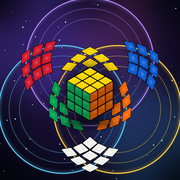
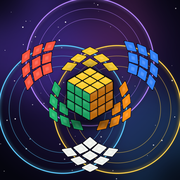
Une note de musique par cercle, les couleurs aimées du client, un tour de victoire plus visible
- sonTour : chaque orbite joue sa note (gamme pentatonique de do, timbre de kalimba).
- Palette Classique aux tons francs et lumineux de la vidéo montrée par le client ; le logo les reprend.
- Victoire : le cube fait son tour en 1,5 s en se penchant un peu, la fenêtre attend qu'il ait fini.

Claude-Session: https://claude.ai/code/session_01KjE4CDatngCY62Y8iDRxzu

diff --git a/orbicube/www/index.html b/orbicube/www/index.html
@@ -1213,7 +1213,7 @@ var PAL_THEME=[   // même ordre que le classique (orange, rouge, jaune, blanc, 
 // petite (de l'air entre les pièces), et un motif par décor : taille de cristal (vert), givre (bleu), braise (rouge), étincelle (violet)
 var LOOK_THEME=[{corps:"#071712",motif:"cristal"},{corps:"#07111F",motif:"givre"},{corps:"#1A090C",motif:"braise"},{corps:"#120A22",motif:"etincelle"}];
 var THEME_COURANT=2;   // l'accueil et les menus ont le décor bleu (bg-2) ; le jeu et la carte prennent celui de leur monde
-var PALETTES={classique:["#FF7A1E","#FA3A47","#FBD101","#F4F4F6","#2DCC4B","#0095D5"],
+var PALETTES={classique:["#FF9014","#FD5440","#FCCD30","#F2F5F0","#21B86F","#3282FC"],   // tons francs et lumineux (le client, le 16/10/2026)
   contraste:["#E69F00","#CC79A7","#F0E442","#FFFFFF","#009E73","#0072B2"],
   pastel:["#FFB27A","#F28B9B","#FFE38A","#F4F1EA","#8FD9A8","#8DB8F2"],
   neon:["#FF7A00","#FF2E63","#F5F500","#E8FFFF","#00FF9C","#00C8FF"],
@@ -1747,8 +1747,10 @@ document.addEventListener("visibilitychange",function(){if(document.hidden)Musiq
 function bip(freq,dur,type,vol,quand){var ac=audio();if(!ac)return;var t=ac.currentTime+(quand||0),o=ac.createOscillator(),g=ac.createGain();
   o.type=type||"sine";o.frequency.setValueAtTime(freq,t);g.gain.setValueAtTime(0,t);g.gain.linearRampToValueAtTime(vol||.12,t+.01);g.gain.exponentialRampToValueAtTime(.0001,t+dur);
   o.connect(g);g.connect(ac.destination);o.start(t);o.stop(t+dur+.02);}
-// nf = nombre de faces déjà unies : le son monte à mesure qu'on approche de la résolution (tension)
-function sonTour(mv,nf){var base=[330,392,494][mv.L+1]*(1+mv.a*.12)*(1+(nf||0)*.05);bip(base,.12,"triangle",.09);bip(base*1.5,.09,"sine",.05,.05);}
+// chaque cercle a sa note (le client, le 16/10/2026) : la gamme pentatonique de do, du grave à l'aigu, trois notes par famille
+// d'orbites ; un timbre de kalimba (fondamentale, octave légère, attaque brève) : jouer, c'est faire une petite mélodie
+var NOTES=[261.63,293.66,329.63,392,440,523.25,587.33,659.25,783.99];
+function sonTour(mv){var f=NOTES[mv.a*3+mv.L+1];bip(f,.7,"sine",.11);bip(f*2,.35,"sine",.025,.005);bip(f*3,.08,"triangle",.02);}
 function sonClic(){bip(660,.05,"sine",.05);}
 function sonEtoile(i){bip(880*Math.pow(1.26,i),.25,"sine",.12);bip(1320*Math.pow(1.26,i),.2,"triangle",.05,.02);}
 function sonVictoire(){bip(131,.6,"sine",.09);[523,659,784,1047,1319].forEach(function(f,i){bip(f,.4,"triangle",.1,i*.08);bip(f*2,.3,"sine",.03,i*.08+.02);});}
@@ -2202,9 +2204,10 @@ function victoire(){J.fini=true;var temps=performance.now()-J.t0,n=J.hist.length
   Musique.effacer(3500);[0,1,2,3,4,5].forEach(function(k){bip(392*Math.pow(1.122,k),.12,"sine",.05,k*.075);});
   // les six faces s'illuminent l'une après l'autre, et le cube fait un tour complet sur lui-même
   Object.keys(CENTRE_FACE).forEach(function(k,i){setTimeout(function(){if(J!==jeton)return;JeuP.eclats.push({xy:CENTRE_FACE[k],c:JeuP.col[CLE_CENTRE[k]],t0:performance.now()});Ticker.reveiller();},CALME?0:420+i*110);});
-  var base={y:PIVOT.y,x:PIVOT.x};if(!CALME)(function tour(now){if(J!==jeton){PIVOT=base;return;}var k=Math.min(1,(now-t0-200)/1100);if(k<0){requestAnimationFrame(tour);return;}
-    PIVOT={y:base.y+ease(k)*Math.PI*2,x:base.x};dessinerMini();if(k<1)requestAnimationFrame(tour);else{PIVOT=base;dessinerMini();}})(t0);
-  setTimeout(function(){if(J!==jeton)return;sonVictoire();vibrer([20,40,20]);confettis();fenetreVictoire(e,n,temps,record);verifierSucces();},CALME?300:1150);}
+  var base={y:PIVOT.y,x:PIVOT.x};if(!CALME)(function tour(now){if(J!==jeton){PIVOT=base;return;}var k=Math.min(1,(now-t0-200)/1500);if(k<0){requestAnimationFrame(tour);return;}
+    // un tour complet, le cube se penchant un peu vers l'avant à mi-course (le client, le 16/10/2026 : « c'est beau »)
+    PIVOT={y:base.y+ease(k)*Math.PI*2,x:base.x+Math.sin(Math.PI*k)*.35};dessinerMini();if(k<1)requestAnimationFrame(tour);else{PIVOT=base;dessinerMini();}})(t0);
+  setTimeout(function(){if(J!==jeton)return;sonVictoire();vibrer([20,40,20]);confettis();fenetreVictoire(e,n,temps,record);verifierSucces();},CALME?300:1700);}
 function fenetreVictoire(e,n,temps,record){var d=J.def,suiv=null;
   // campagne : le bouton principal suit le chemin ; un niveau pair du chemin qui ouvre un expert le propose en second
   var experts=null,cS=null;

diff --git a/orbicube/www/sw.js b/orbicube/www/sw.js
@@ -1,6 +1,6 @@
 // Version web (PWA) : tout le jeu est mis en cache pour se jouer hors ligne.
 // Incrémenter V à chaque publication, sinon les joueurs gardent l'ancienne version.
-var V = "orbicube-v162";
+var V = "orbicube-v163";
 var FICHIERS = ["./", "index.html", "config.js", "natif.js", "langues.js", "manifest.webmanifest", "confidentialite.html",
   "img/fond-1.webp", "img/fond-2.webp", "img/fond-3.webp", "img/fond-4.webp",
   "img/bg-1.webp", "img/bg-2.webp", "img/bg-3.webp", "img/bg-4.webp",

diff --git a/orbicube/outils/icones.py b/orbicube/outils/icones.py
@@ -219,6 +219,8 @@ def cube(im,cx,cy,s,cols=((245,245,240),(0,166,81),(215,25,44))):
 # le logo (2e version, le client, le 16/10/2026 : « le cube au milieu et quelques orbites avec les facettes autour, faisant
 # comprendre le mieux possible le jeu ») : le plateau du jeu, ses neuf orbites (une couleur par famille, la plus grande
 # appuyée) et ses facettes en losanges, résolu ; au centre le cube, qui porte les couleurs des faces voisines
+# les couleurs de la palette Classique du jeu (le client, le 16/10/2026)
+COUL_LOGO = ["#FF9014", "#FD5440", "#FCCD30", "#F2F5F0", "#21B86F", "#3282FC"]
 ORB=[(255,207,74),(178,130,255),(92,200,255)]   # une couleur par famille d'orbites
 
 def stickers():
@@ -262,13 +264,13 @@ def logo_premium(T,ech=0.33,transparent=False,rcube=0.46,mode="A"):
         P=[V(p) for p in pts]
         # ombre / liseré sombre puis la couleur
         poly_arrondi(d,retrecir(P,1.12),(8,8,14,255),T*0.004)
-        poly_arrondi(d,P,hexa(COUL[f])+(255,),T*0.004)
+        poly_arrondi(d,P,hexa(COUL_LOGO[f])+(255,),T*0.004)
         hd.polygon([P[0],P[1],P[3]] if False else retrecir(P,0.55),fill=(255,255,255,40))
     hl=hl.filter(ImageFilter.GaussianBlur(T*0.003)); im.alpha_composite(hl)
     # le cube au centre, avec un halo
     s=rcube*E*0.98
     g=Image.new("RGBA",(T,T),(0,0,0,0)); gd=ImageDraw.Draw(g); gd.ellipse([O[0]-s*1.05,O[1]-s*1.05,O[0]+s*1.05,O[1]+s*1.05],fill=(10,8,24,150)); g=g.filter(ImageFilter.GaussianBlur(s*0.18)); im.alpha_composite(g)
-    cube(im,O[0],O[1]+s*0.02,s,(hexa(COUL[2]),hexa(COUL[4]),hexa(COUL[0])))   # U, F, R : les faces voisines du plateau
+    cube(im,O[0],O[1]+s*0.02,s,(hexa(COUL_LOGO[2]),hexa(COUL_LOGO[4]),hexa(COUL_LOGO[0])))   # U, F, R : les faces voisines du plateau
     return im
 
 def rendre_premium(taille, ech, transparent=False, sur=3):

diff --git a/CLAUDE.md b/CLAUDE.md
@@ -111,7 +111,8 @@ contresens). Un contrôle neuf s'éprouve de la même façon avant d'être cru.
   d'attente : `www/config.js` > `prixPacks`. Pas de monnaie virtuelle ni de tirage au hasard (décision du 13/10/2026).
   Pack soutien : liseré doré sur la puce du rang et le Profil (« Mécène d'Orbicube »).
 - **Fin de niveau** : les six faces s'illuminent l'une après l'autre et le cube fait un tour sur
-  lui-même (`PIVOT` n'est animé que là) ; « Revoir ma partie » rejoue le mélange puis les coups (`revoir()`).
+  lui-même (`PIVOT` n'est animé que là ; 1,5 s, penché un peu vers l'avant à mi-course, la fenêtre de victoire attend
+  1,7 s pour qu'on le voie, le client le 16/10/2026 : « c'est beau ») ; « Revoir ma partie » rejoue le mélange puis les coups (`revoir()`).
 - **Couleur d'accent par monde** (`ACCENTS`, `accent(w)`) : variable CSS `--acc` (triplet r,g,b) et
   `ACC` pour le canevas (cercle saisi, vague de victoire). Accueil, défi et jeu libre : le lilas.
   **Les orbites du plateau** (trait fin + halo léger, au repos comme à la sélection/au tour) prennent cette
@@ -166,6 +167,10 @@ contresens). Un contrôle neuf s'éprouve de la même façon avant d'être cru.
   avant le premier niveau) : plus de phrase sous le bouton ni de bande du rang. Le rang reste dans la puce du haut
   (deux progressions distinctes). Les niveaux s'affichent en numéro continu (`numNiveau`, « Niveau 26 »), comme sur la carte.
 - **Faces terminées** : halo discret de leur couleur sous leurs neuf pastilles (`RAYON_FACE`), sur le plateau de jeu.
+- **Une note par cercle** (le client, le 16/10/2026, vu dans une vidéo) : `sonTour` joue la note de son orbite (`NOTES`, gamme
+  pentatonique de do, trois notes par famille, du grave à l'aigu) en timbre de kalimba ; chaque quart de tour d'un glisser
+  la rejoue. **Palette Classique** aux tons francs et lumineux de cette vidéo (#FF9014, #FD5440, #FCCD30, #F2F5F0, #21B86F,
+  #3282FC) ; le logo les reprend (`COUL_LOGO`).
 - **Musique** (`Musique`, `www/audio/nuit-dorbites.m4a`, générée par le client avec Suno sous licence
   commerciale) : AAC 96 kb/s (l'Opus d'origine ne se lit pas sur iPhone), boucle Web Audio avec fondu
   enchaîné de 6 s, démarre au premier geste, se coupe en arrière-plan, baisse sous la victoire. Le Chromium
